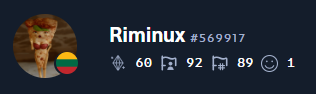
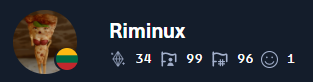
fixes

diff --git a/about/experience.html b/about/experience.html
@@ -76,8 +76,8 @@
             <h3><a href="https://app.hackthebox.com/profile/569917" class="profile" target="_blank">HackTheBox</a></h3>
             <img src="img/RiminuxHTB.png" alt="HackTheBox Badge" class="badge" />
             <ul class="platform-stats">
-                <li>Pwned Systems flags: <strong>89</strong></li>
-                <li>Pwned User flags: <strong>92</strong></li>
+                <li>Pwned Systems flags: <strong>96</strong></li>
+                <li>Pwned User flags: <strong>99</strong></li>
                 <li>Rating: <strong>Top 1% Worldwide</strong></li>
                 <li>Academy Student transcript: <strong><a href="assets/htbtranscript1.pdf" target="_blank" class="download">Download</a></strong></li>
             </ul>
@@ -88,6 +88,14 @@
             <li>
                 <strong>System Administrator at Vilnius University</strong><br>
                 <em>December 2023 - Present</em>
+            </li>
+            <li>
+                <strong>Cyber Security Laboratory Assistant</strong><br>
+                <em>April 2024 - July 2024</em>
+            </li>
+            <li>
+                <strong>Generative AI Researcher in CISO Operations</strong><br>
+                <em>November 2024 - Present</em>
             </li>
         </ul>
         <h1><span class="highlight">Education</span></h1>

diff --git a/about/about.html b/about/about.html
@@ -60,7 +60,7 @@
     <div class="hero-content">
         <h1 class="typing-effect">Hi, I'm <span class="accent-color">Riminux</span></h1>
         <p>
-            A <span class="accent-color">Red Team</span> enthusiast, wannabe Penetration Tester, passionate about ethically hacking digital environments.<br><br>
+            A <span class="accent-color">Red Team</span> enthusiast, passionate about ethically hacking digital environments.<br><br>
             "<i><b>The best defense is a good offense</b></i>"
         </p>
     </div>

diff --git a/_posts/2025-01-18-monitorsthree.md b/_posts/2025-01-18-monitorsthree.md
@@ -236,7 +236,7 @@ Listed tables:
 ![](/assets/blogimages/Writeups/Hackthebox/MonitorsThree/MonitorsThree16.png)
 
 Dumped **Option** table:
-`select *from Option;`
+`select * from Option;`
 ```
 4||encryption-module|
 4||compression-module|zip
